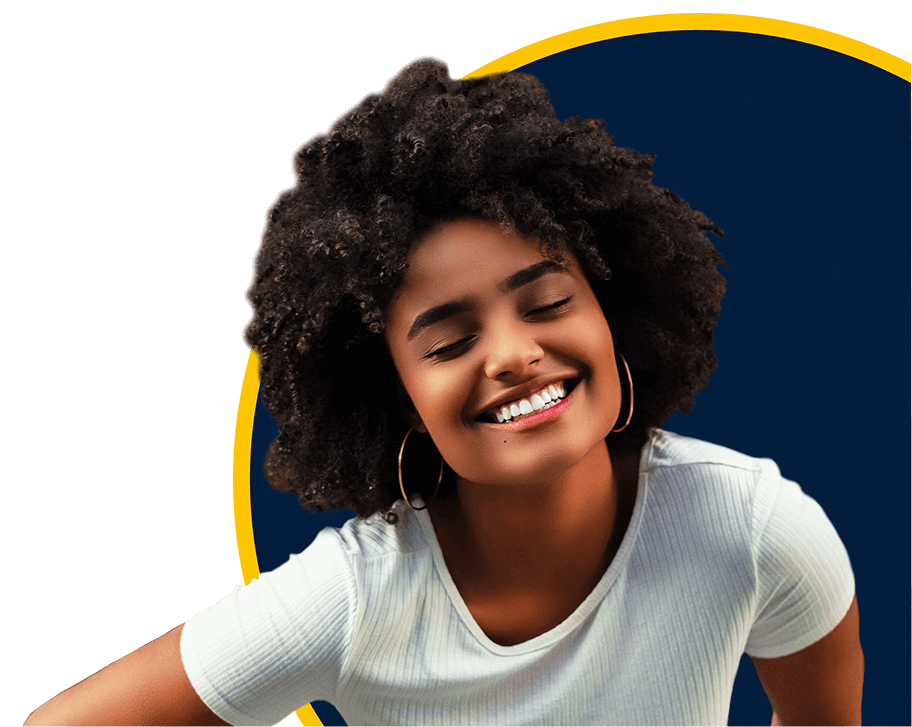
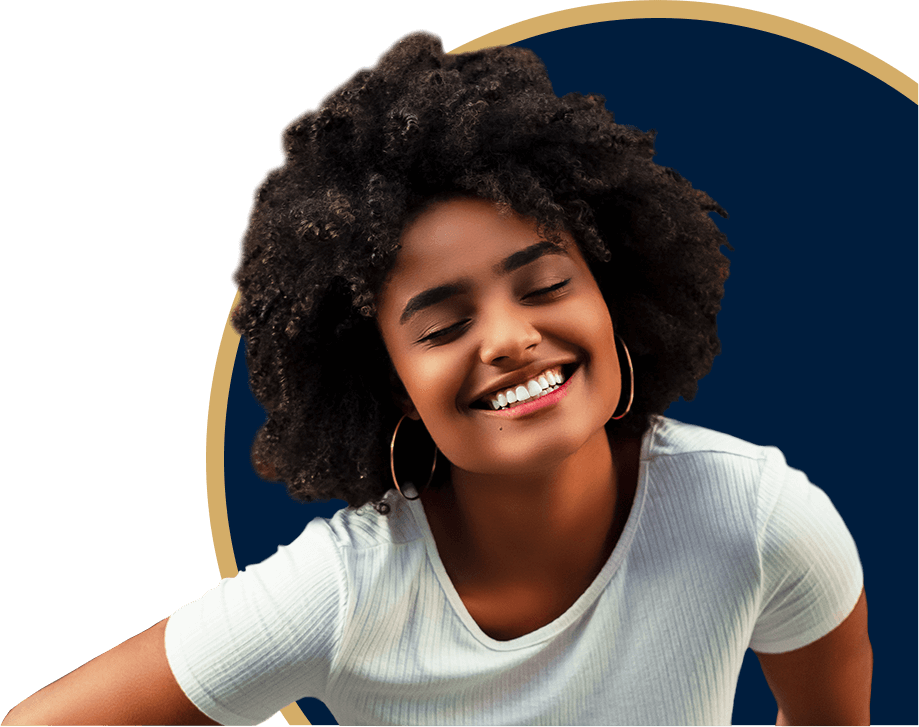
Atualização de paleta de cores

Changed region(s): [[0.0, 0.0, 1.0, 1.0], [0.8904, 0.7263, 0.9518, 0.9381]]

diff --git a/src/App.css b/src/App.css
@@ -375,7 +375,7 @@ html{
     justify-content: flex-end;
     width: 100%;
     height: 200px;
-    background-color: #FFC300;
+    background-color: #D4AD68;
     z-index: 100;
     position: absolute;
     bottom: 0;
@@ -386,7 +386,7 @@ html{
     justify-content: flex-end;
     width: 100%;
     height: 200px;
-    background-color: #FFC300;
+    background-color: #D4AD68;
     z-index: 100;
     top: 0;
   }
@@ -557,7 +557,7 @@ html{
   padding: 5px 10px;
   margin: 0 40px;
   border-radius: 0px 0px 5px 5px;
-  background-color: #FFC300;
+  background-color: #D4AD68;
   color: #001D3D;
   font-family: "Sora", sans-serif;
   font-weight: 300;
@@ -647,7 +647,7 @@ html{
   }
   
   .text-orange{
-    color: #FFC300;
+    color: #D4AD68;
   }
   
   .text-blue{
@@ -678,7 +678,7 @@ html{
     padding: 10px 35px;
     border: none;
     border-radius: 7px;
-    background-color: #FFC300;
+    background-color: #D4AD68;
     transition: all 0.3s ease-out;
     z-index: 100;
     margin-top: 10px;
@@ -700,7 +700,7 @@ html{
   
   .btn-large:hover, .btn-medium:hover{
     transform: scale(1.07);
-    border: 2px solid #ca8e00;
+    border: 2px solid #AD8A4C;
     box-shadow: 2px 3px 5px 0.5px rgb(0 0 0 / 15%);
   }
 
@@ -899,6 +899,54 @@ html{
   }
 }
 
+@media screen and (min-width: 500px) and (max-height: 700px){
+  .benefits-card {
+    width: 140px !important;
+    height: 140px !important;
+  }
+
+  .wrapper-section3 .title-h2{
+    font-size: 28px !important;
+  }
+
+  .wrapper-section3 .title-h4{
+    font-size: 22px !important;
+  }
+
+  .benefits-title2{
+    margin-top: 20px !important;
+  }
+
+  .grid-cards{
+    margin-top: 40px !important;
+  }
+
+  .box-media{
+    height: 150px !important;
+  }
+
+  .mockup img{
+    height: 630px !important;
+  }
+
+  .image-bg-1 img{
+    width: 78% !important;
+    max-width: 78% !important;
+  }
+
+  .mockup-description .title-h1{
+    font-size: 33px !important;
+  }
+
+  .mockup-description .title-h4{
+    font-size: 23px !important;
+  }
+
+  .slider-container .title-h1{
+    font-size: 33px !important;
+  }
+}
+
 @media screen and (min-width: 545px){
   .margin-section{
     margin-left: 40px;
@@ -944,7 +992,7 @@ html{
 
 @media screen and (min-width: 580px){
   .mockup-block img{
-    height: 70%;
+    height: 65%;
   }
 
   .mockup-block {
@@ -1156,7 +1204,7 @@ html{
   }
 
   .slide-text{
-  font-size: 24px !important;
+  font-size: 22px !important;
   }
 
   .prev, .next {

diff --git a/src/components/ItemsSlider/styles.css b/src/components/ItemsSlider/styles.css
@@ -13,14 +13,14 @@
 .jRFJkP, .cNNJIt {
     background-color: transparent !important;
     /* background-image: url('./assets/front.png') !important; */
-    color: #FFC300 !important;
+    color: #D4AD68 !important;
     border: none !important;
     font-size: 55px !important;
     box-shadow: none !important;
 }
 
 button.rec-dot{
-    background-color: #FFC300;
+    background-color: #D4AD68;
     box-shadow: gray;
   }
 
@@ -31,13 +31,13 @@ button.rec-dot{
 
   .lcUbOd{
     box-shadow: none !important;
-    background-color: #FFB200 !important;
+    background-color: #AD8A4C !important;
     transform: scale(1.5) !important;
   }
 
   .lcUbOd:hover, .lcUbOd:focus {
     box-shadow: none !important;
-    background-color: #FFB200 !important;
+    background-color: #AD8A4C !important;
   }
 
   .cNNJIt:disabled{

diff --git a/src/components/Slider/slider.css b/src/components/Slider/slider.css
@@ -71,7 +71,7 @@
     margin-right: 90px;
     font-size: 30px;
     font-weight: bold;
-    color: #FFC300;
+    color: #D4AD68;
     border-radius: 0px 5px 5px 0px;
     transition: all 0.3s ease-out;
 }
@@ -101,7 +101,7 @@
     height: 1rem;
     width: 1rem;
     margin: 0px 3px;
-    background-color: rgb(255, 178, 0, 0.3);
+    background-color: rgb(212, 173, 104, 0.3);
     border-radius: 50%;
     display: inline-block;
     transition: all 0.3s ease-out;
